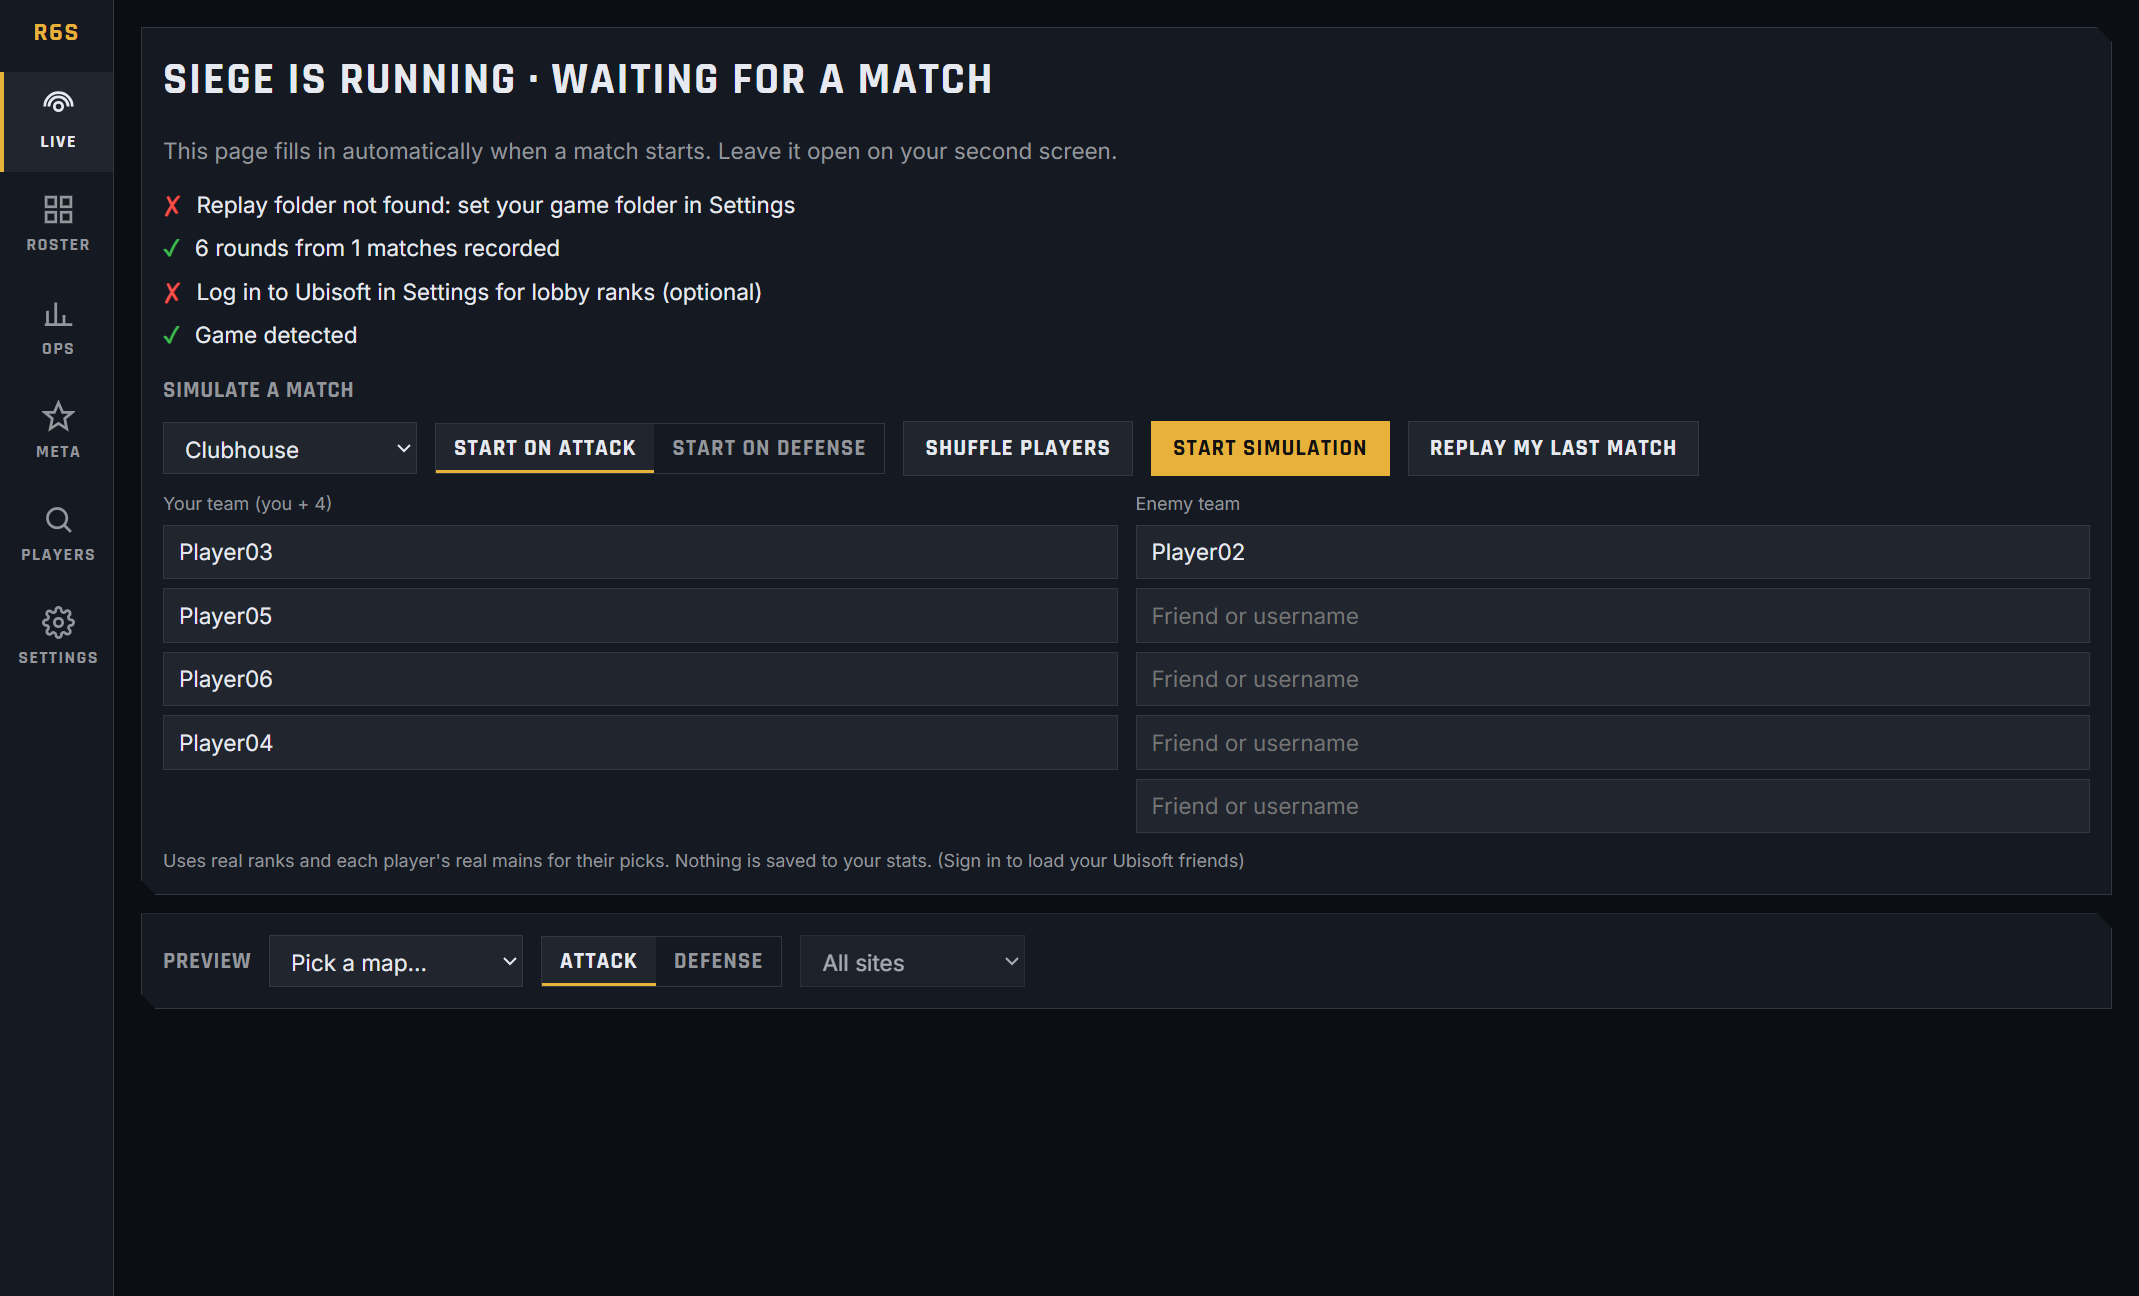
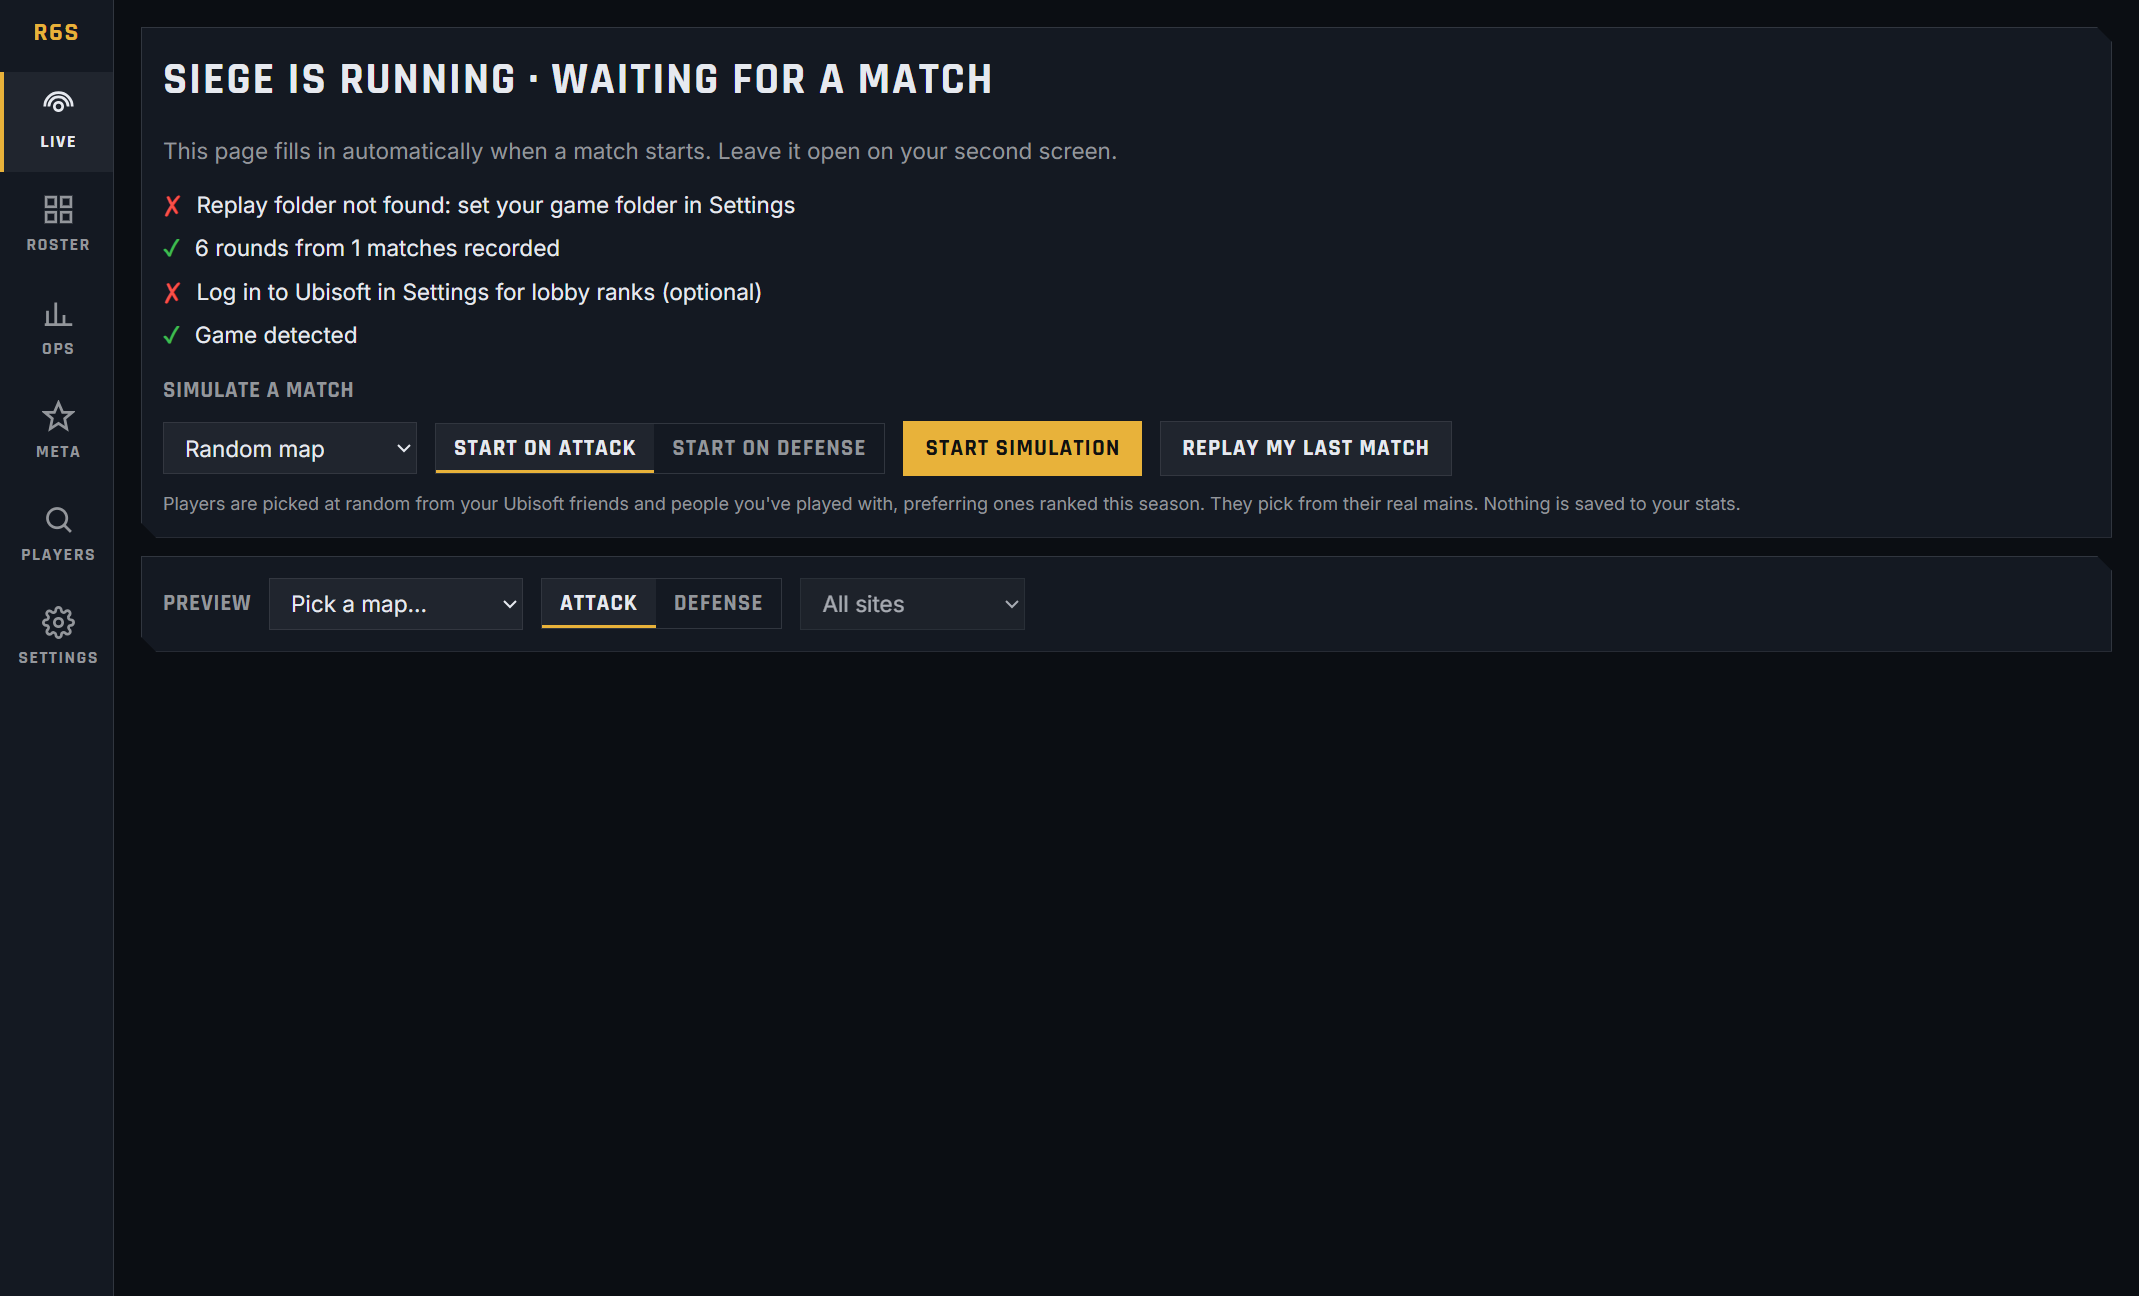
Simulator auto-picks random ranked players (friends + met), random map option

Changed region(s): [[0.0617, 0.3086, 0.9874, 0.679], [0.0926, 0.7099, 0.432, 0.7716]]

diff --git a/src/renderer/src/pages/Live.tsx b/src/renderer/src/pages/Live.tsx
@@ -1,4 +1,4 @@
-import { useEffect, useState } from 'react'
+import { useState } from 'react'
 import type { AppStatus, LivePlayer, LiveState, Recommendation, Settings } from '../../../shared/ipc'
 import { allMaps, mapName } from '../../../shared/catalog'
 import type { Side } from '../../../shared/types'
@@ -198,61 +198,32 @@ function PreviewPicker({ onPreview, active }: { onPreview: (s: LiveState | null)
   )
 }
 
-/** Test the Live page without playing: any map, your side, real players (friends / met / any name). */
+/** Test the Live page without playing: pick a map and go. Players are chosen automatically
+ *  (friends + people you've met, preferring ones ranked this season) and pick from their real mains. */
 function Simulator({ hasReplay }: { hasReplay: boolean }) {
-  const [data] = useData(() => rs().simPeople(), [])
-  const people = data?.people ?? []
-  const [map, setMap] = useState('clubhouse')
+  const [map, setMap] = useState('random')
   const [side, setSide] = useState<Side>('attack')
-  const [mine, setMine] = useState<string[]>(['', '', '', ''])
-  const [enemy, setEnemy] = useState<string[]>(['', '', '', '', ''])
   const [msg, setMsg] = useState<string | null>(null)
   const [busy, setBusy] = useState(false)
-  const [filled, setFilled] = useState(false)
-
-  const shuffle = () => {
-    const pool = [...people].sort(() => Math.random() - 0.5)
-    const friends = pool.filter((p) => p.source === 'friend')
-    const others = pool.filter((p) => p.source !== 'friend')
-    // Friends first on your team, everyone else after; nobody appears twice.
-    const order = [...friends, ...others]
-    const pad = (xs: string[], n: number) => Array.from({ length: n }, (_, i) => xs[i] ?? '')
-    setMine(pad(order.slice(0, 4).map((x) => x.name), 4))
-    setEnemy(pad(order.slice(4, 9).map((x) => x.name), 5))
-  }
-  useEffect(() => { if (!filled && people.length) { setFilled(true); shuffle() } }, [people.length]) // eslint-disable-line react-hooks/exhaustive-deps
-
   const start = async () => {
-    setBusy(true); setMsg('Loading players…')
-    const r = await rs().simulateMatch({ mapKey: map, side, myTeam: mine, enemyTeam: enemy })
+    setBusy(true); setMsg('Picking players and loading their ranks…')
+    const r = await rs().simulateMatch({ mapKey: map, side, myTeam: [], enemyTeam: [] })
     setBusy(false)
-    setMsg(r.ok ? (r.unresolved?.length ? `Started. Not found: ${r.unresolved.join(', ')}` : null) : r.error ?? 'Could not start')
+    setMsg(r.ok ? null : r.error ?? 'Could not start')
   }
-  // A plain function (not a component) so inputs keep focus while typing.
-  const slot = (key: string, v: string, set: (s: string) => void) => (
-    <input key={key} type="text" list="sim-people" value={v} onChange={(e) => set(e.target.value)} placeholder="Friend or username" aria-label="Player" style={{ minWidth: 0, width: '100%' }} />
-  )
   return (
     <div style={{ marginTop: 16, display: 'flex', flexDirection: 'column', gap: 10 }}>
       <h2 style={{ margin: 0 }}>Simulate a match</h2>
       <div className="row">
         <select value={map} onChange={(e) => setMap(e.target.value)} aria-label="Map">
+          <option value="random">Random map</option>
           {allMaps().map((m) => <option key={m.key} value={m.key}>{m.name}</option>)}
         </select>
         <Seg value={side} options={[{ v: 'attack', label: 'Start on attack' }, { v: 'defense', label: 'Start on defense' }]} onChange={setSide} />
-        <button className="btn" onClick={shuffle} disabled={!people.length}>Shuffle players</button>
         <button className="btn primary" onClick={() => void start()} disabled={busy}>{busy ? 'Starting…' : 'Start simulation'}</button>
         {hasReplay && <button className="btn" onClick={() => void rs().simulate()}>Replay my last match</button>}
       </div>
-      <div className="grid-2" style={{ gridTemplateColumns: '1fr 1fr' }}>
-        <div style={{ display: 'grid', gap: 6, alignContent: 'start' }}><span className="small muted">Your team (you + 4)</span>{mine.map((v, i) => slot(`m${i}`, v, (s) => setMine(mine.map((x, j) => (j === i ? s : x)))))}</div>
-        <div style={{ display: 'grid', gap: 6, alignContent: 'start' }}><span className="small muted">Enemy team</span>{enemy.map((v, i) => slot(`e${i}`, v, (s) => setEnemy(enemy.map((x, j) => (j === i ? s : x)))))}</div>
-      </div>
-      <datalist id="sim-people">{people.map((p) => <option key={p.profileId} value={p.name}>{p.source === 'friend' ? 'Friend' : 'Played with'}</option>)}</datalist>
-      <span className="small muted">
-        Uses real ranks and each player's real mains for their picks. Nothing is saved to your stats.
-        {data?.error ? ` (${data.error})` : people.length ? ` ${people.filter((p) => p.source === 'friend').length} friends loaded.` : ''}
-      </span>
+      <span className="small muted">Players are picked at random from your Ubisoft friends and people you've played with, preferring ones ranked this season. They pick from their real mains. Nothing is saved to your stats.</span>
       {msg && <span className="small warn">{msg}</span>}
     </div>
   )

diff --git a/src/main/index.ts b/src/main/index.ts
@@ -16,6 +16,7 @@ import { LiveEngine } from './live/engine'
 import { buildLive } from './live/state'
 import { apiOps, currentSeason, mainsOf, metaRows, opStats, sitesFor, type Ctx } from './services'
 import { buildSyntheticMatch, type SimPlayer } from './live/simulate'
+import { SEED_SITES } from '../shared/data/maps'
 import { baselineFor } from '../shared/recommend'
 import { applyLearned } from './replay/ingest'
 import { findGameDirs, replayRootOf } from './replay/locate'
@@ -173,8 +174,30 @@ app.whenReady().then(async () => {
         return null
       }
       const team = async (qs: string[]) => (await Promise.all(qs.map(resolve))).filter((p): p is { profileId: string; name: string } => !!p)
-      const [mine, enemy] = await Promise.all([team(req.myTeam), team(req.enemyTeam)])
-      if (!enemy.length) return { ok: false, error: 'Add at least one enemy player', unresolved }
+      let [mine, enemy] = await Promise.all([team(req.myTeam), team(req.enemyTeam)])
+      let activeCount: number | undefined
+      let activeIds = new Set<string>()
+      const cards0 = (id: string) => activeIds.has(id)
+      if (req.mapKey === 'random') { const keys = Object.keys(SEED_SITES); req = { ...req, mapKey: keys[Math.floor(Math.random() * keys.length)]! } }
+      if (!req.myTeam.some((s) => s.trim()) && !req.enemyTeam.some((s) => s.trim())) {
+        // Auto: random players from friends + people you've met, preferring ones ranked this season
+        // with games played. Ranks come from one batched lookup (cached), friends go on your team first.
+        let friends: { profileId: string; name: string }[] = []
+        if (ubi.canAuth) { try { friends = await ubi.friends() } catch { /* met players only */ } }
+        const pool = new Map<string, { profileId: string; name: string; friend: boolean }>()
+        for (const f of friends) if (f.profileId !== me) pool.set(f.profileId, { ...f, friend: true })
+        for (const p of db.recentPlayers(60, me)) if (!pool.has(p.profileId)) pool.set(p.profileId, { ...p, friend: false })
+        const people = [...pool.values()].slice(0, 80)
+        const { cards } = await lobby.cards(people.map((p) => p.profileId), Object.fromEntries(people.map((p) => [p.profileId, p.name])))
+        const active = new Set(cards.filter((c) => (c.ranked?.rank ?? 0) > 0 && (c.season?.wins ?? 0) + (c.season?.losses ?? 0) > 0).map((c) => c.profileId))
+        activeCount = active.size
+        activeIds = active
+        const shuffled = <T,>(xs: T[]) => xs.map((x) => [Math.random(), x] as const).sort((a, b) => a[0] - b[0]).map(([, x]) => x)
+        const ordered = [...shuffled(people.filter((p) => active.has(p.profileId))), ...shuffled(people.filter((p) => !active.has(p.profileId)))]
+        mine = [...ordered.filter((p) => p.friend), ...ordered.filter((p) => !p.friend)].slice(0, 4)
+        enemy = ordered.filter((p) => !mine.includes(p)).slice(0, 5)
+      }
+      if (!enemy.length) return { ok: false, error: 'No players to simulate with yet: sign in (friends) or play a match first', unresolved }
       // Their real mains (Ubisoft stats) drive the simulated picks.
       await opsync.syncPlayers([me, ...mine.map((p) => p.profileId), ...enemy.map((p) => p.profileId)])
       const asSim = (p: { profileId: string; name: string }): SimPlayer => ({ ...p, mains: mainsOf(ctx, p.profileId, 8) })
@@ -184,7 +207,7 @@ app.whenReady().then(async () => {
         sites: sitesFor(ctx, req.mapKey).map((s) => s.site), baseline: baselineFor(dataset.get(), req.mapKey)
       })
       void engine.playRounds(rounds, 4000)
-      return { ok: true, unresolved }
+      return { ok: true, unresolved, ranked: activeCount === undefined ? undefined : [...mine, ...enemy].filter((p) => cards0(p.profileId)).length }
     },
     stopSimulation: async () => engine.stopSimulation(),
     updateStatus: async () => updates.status,
@@ -243,7 +266,7 @@ app.whenReady().then(async () => {
         }
         // Full simulator path through the real IPC API: round 1 (as OCR would report it), then mid-match.
         await js(`[...document.querySelectorAll('.nav button')].find(b => b.textContent.trim() === 'Live')?.click()`)
-        const started = await js(`window.rs.simulateMatch({ mapKey: 'clubhouse', side: 'defense', myTeam: ['Player02', 'Player03'], enemyTeam: ['Player04', 'Player05', 'Player06', 'NoSuchPlayer'] })`)
+        const started = await js(`window.rs.simulateMatch({ mapKey: 'random', side: 'defense', myTeam: [], enemyTeam: [] })`)
         console.log('SIM', JSON.stringify(started))
         await new Promise((r) => setTimeout(r, 1500))
         writeFileSync(join(shots, '0-round1.png'), (await win!.webContents.capturePage()).toPNG())

diff --git a/src/shared/ipc.ts b/src/shared/ipc.ts
@@ -162,7 +162,8 @@ export interface RsApi {
   /** Friends (Ubisoft) and players you've met, for the simulator. */
   simPeople(): Promise<{ people: SimPerson[]; error: string | null }>
   /** Simulates a match on any map with chosen players (in memory only). */
-  simulateMatch(r: SimRequest): Promise<{ ok: boolean; error?: string; unresolved?: string[] }>
+  /** Empty teams = auto-pick random players (friends + met), preferring ranked-this-season. mapKey 'random' allowed. */
+  simulateMatch(r: SimRequest): Promise<{ ok: boolean; error?: string; unresolved?: string[]; ranked?: number }>
   stopSimulation(): Promise<void>
   updateStatus(): Promise<UpdateStatus>
   checkForUpdates(): Promise<UpdateStatus>

diff --git a/PLAN.md b/PLAN.md
@@ -192,6 +192,7 @@ weapon/attachment stats from replays · export CSV · per-patch diff view ("what
 | 2026-10-19 | 5 | check ✅ 35 tests. Simulated replay drops (real Y11S3 files copied into a watched dir): file → LiveState in **181–262 ms** (budget 300). Side prediction + match-end (incl. OT) tested |
 | 2026-10-19 | 6 | Windows OCR worker verified on this PC: boot 0.4 s, **24 ms/frame**, read CLUBHOUSE/DEFENSE/site correctly from a rendered frame. Matcher tests incl. OCR noise + no false positives. Real in-game frames untested (user check) |
 | 2026-10-19 | 4 | Screenshot review of every page found + fixed: misleading side tags, stale header side after match end, inflated pick rate in 3v3 (now exact team-rounds), baseline shown as win %, op chips overflowing, all-ops score penalty (now neutral 50 for no data) |
+| 2026-10-19 | 9.2 | Simulator per user feedback: no typing, auto-picks random players (friends first on your team, then met players) preferring ranked-this-season with games played (one batched rank lookup), optional random map. E2E via real IPC ✅ (random map → Bank, 5/5 ranked picked) |
 | 2026-10-19 | 9.1 | Match simulator: any map, start side, both teams from Ubisoft friends (GET /v3/profiles/{me}/friends, live-verified: 28 friends) / players met / any name; picks drawn from each player's real mains; in-memory only. E2E through real IPC in screenshot mode ✅ (unknown name reported). Seed site names for 17 maps (replaced by replay-learned names). Review fixes: shuffle duplicates, input focus loss, lobby overflow, 1-round samples over-weighted (prior k doubled). 53 tests |
 | 2026-10-19 | 9 | Live-verified with user session (read-only): your stats 200 OK (191 values, 90 operator rows since 2024-08), batched 3 profiles 200 OK, seasonal Y11S3 200 OK; real hex ids map to Ash/Finka/Kapkan/Kali. 50 tests (parser, sync scheduling = 2 req/lobby, API-only recommendations). Debugged a screenshot-only render-timing artifact (engine state was correct) |
 | 2026-10-19 | 7.2 | User report: password login → 403. Probed live: Ubisoft edge bot-protection now blocks Basic-auth logins for app id 4391c956 (HTML 403); Ubisoft Connect PC id f68a4bb5 passes; ticket exchange/rm_v1/2FA/GETs unaffected. Fix: login via Connect PC id → exchange to ours, fallback order, clear "blocked" error. Real client vs live Ubisoft with a fake account → "Invalid credentials" (401) ✅. 47 tests |
